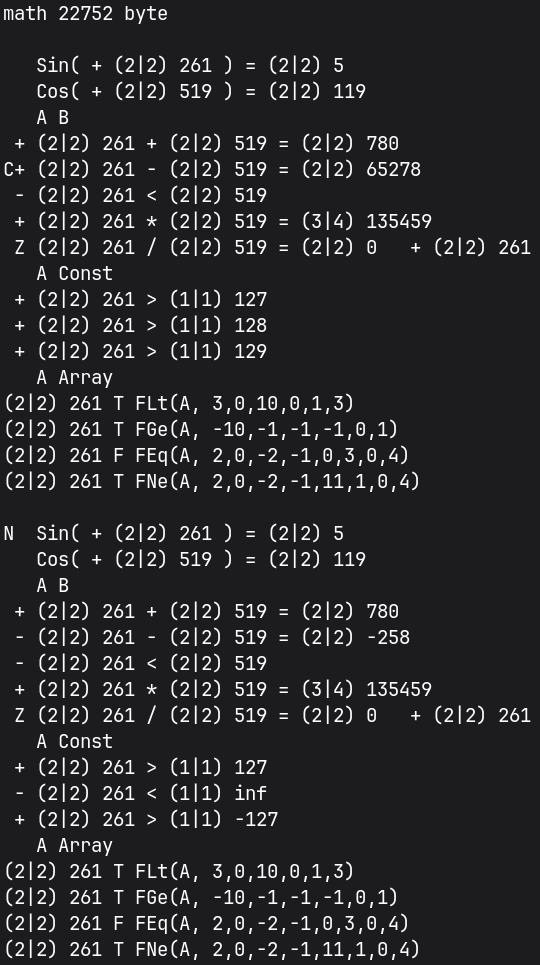
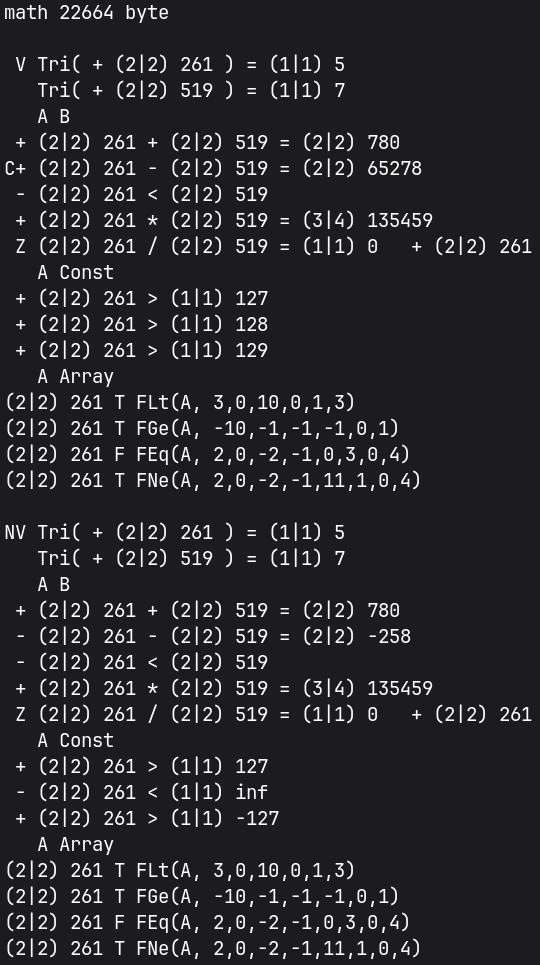
v80.3

diff --git a/math.c b/math.c
@@ -34,16 +34,9 @@ anu FOLD(anu f, an a, anu l, an b) { Mat.y = FMOV(a, l, b); Mat.q = ((Mat.x = Ma
 anu FVAR(anu f, an a, anu l, an c) { if (l--) { if (f) { FSWAP(a, l, c); return Fmov(l, a); }
     else return FMOV(a, l, c); } return Fvle(a, 0); }
 
-anu FSin(anu s, anu x) { static anu w[] = {0,1,2,3,4,5,6,7,8,9,10,11,12,13,14,15,16,17,18,19,20,21,
-  22,23,24,25,26,27,28,29,30,31,32,33,34,35,36,37,38,39,40,41,42,43,44,45,46,47,48,49,50,51,52,53,54,
-  55,56,57,58,59,60,61,62,63,63,64,65,66,67,68,69,70,71,72,73,74,75,76,77,78,79,80,81,82,83,84,85,86,
-  87,88,89,90,91,92,93,94,95,96,97,98,99,100,101,102,103,104,105,106,107,108,109,110,111,112,113,114,
-  115,116,117,118,119,120,121,122,123,124,125,126}; Mat.x = (s) ? ~x + 1 : x;
-  Mat.y = *(w + (Mat.x & 127)); Mat.y = (Mat.x & 128) ? 127 - Mat.y : Mat.y; return (s) ? ~Mat.y+1:Mat.y; }
-void FSIN(an r, anu l, an b) { Mat.y = FSin(Mat.Nim?*(b+l)&128:0, *b); Mat.N = (Mat.y&128) ?255:0; Mat.F = !Mat.y;
-  *r = Mat.y; Mat.l = 0; if ((Mat.i = l) && !Mat.V) { Mat.l = Mat.i; do *++r = Mat.N; while(--Mat.i); } }
-void FCOS(an r, anu l, an b) { Mat.y = FSin(Mat.Nim?(*(b+l)^*b)&128:0, *b^128); Mat.N = (Mat.y&128) ? 255:0; Mat.F = !Mat.y;
-  *r = Mat.y; Mat.l = 0; if ((Mat.i = l) && !Mat.V) { Mat.l = Mat.i; do *++r = Mat.N; while(--Mat.i); } }
+anu FTri(anu s, anu x) { Mat.y = (x&128) ? 127-(x&127):(x&127); return (s) ? ~Mat.y+1:Mat.y; }
+void FTRI(an r, anu l, an b) { Mat.y = FTri(Mat.Nim?*(b+l)&128:0, *b); Mat.N = (Mat.y&128) ?255:0;
+  Mat.F = !Mat.y; *r = Mat.y; Mat.l = 0; if ((Mat.i = l) && !Mat.V) { Mat.l = Mat.i; do *++r = Mat.N; while(--Mat.i); } }
 
 void FTST(an a, anu l, an b) { Mat.i = Mat.l; Mat.lb = l; Mat.a = a; Mat.b = b; Mat.TF = 0;
   Mat.u = ((*(Mat.ae = Mat.a + Mat.i) & 128) && Mat.Nim) ? 255:0; Mat.j = Mat.lb;
@@ -167,8 +160,7 @@ void FDIV(an r, an e, an a, anu l, an b) { Mat.r = r; Mat.e = e; FTST(a, l, b); 
     Mat.i = Mat.l; while(Mat.i--) { *++Mat.r = 0; } return; }
   }
 
-  void FCSIN(an r, anu l, an c) { if (l--) return FSIN(r, l, c); return FSIN(r, Mat.lb, Mat.b); }
-  void FCCOS(an r, anu l, an c) { if (l--) return FCOS(r, l, c); return FCOS(r, Mat.lb, Mat.b); }
+  void FCTRI(an r, anu l, an c) { if (l--) return FTRI(r, l, c); return FTRI(r, Mat.lb, Mat.b); }
 
   void FCTST(an a, anu l, an c) { if (l--) return FTST(a, l, c); return FTST(a, Mat.lb, Mat.b); }
   anu FCGE(an a, anu l, an c) { if (l--) { Mat.r = c; do { Mat.y = (Mat.l > l) ? l:Mat.l;

diff --git a/main.c b/main.c
@@ -24,14 +24,14 @@ void Num(anu s, an a) { anu ns,t[m]; if (s > 7) printf(" %d|? ", s + 1);
         else if (ns) printf("%u ", *(uint16_t*)a); else printf("%u ", *(uint8_t*)a); } } } }
 void Show(char s) { Flong(Mat.lb,la); Mat.C = 0; if (s == '+') FAdd(Mat.R, Mat.A); else if (s == '-') FSub(Mat.R, Mat.A);
   else if (s == '*') FMul(Mat.R, Mat.A); else if (s == '/') FDiv(Mat.R, Mat.E, Mat.A); else if (s == '?') Ftst(Mat.A);
-  else if (s == '0') FSIN(Mat.R, la, Mat.A); else if (s == '1') Fcos(Mat.R); else Ftst(Mat.A, 127);
+  else if (s == '0') FTRI(Mat.R, la, Mat.A); else if (s == '1') Ftri(Mat.R); else Ftst(Mat.A, 127);
   if (s == '?' || s == 'c') printf(" %c ", Mat.TF ? 'Z':Mat.TN ? '-':'+'); else printf("%c%c ", Mat.C ? 'C':' ', Mat.F ? Mat.N ? 'I':'Z':Mat.N ? '-':'+');
   if (s == '0' || s == '1') { if (s == '0') Num(la, Mat.A); else { Num(lb, Mat.B); } printf(") "); } else { Num(la, Mat.A);
     if (s == '?' || s == 'c') printf("%c ", Mat.TF ? '=':Mat.TN ? '<':'>'); else { if (s == 'c') printf("? "); else printf("%c ", s); } Num(Mat.lb, Mat.b); }
   if (s < '?') { printf("= "); Num(Mat.l, Mat.R); }
   if (s == '/') { printf("  %c ", Mat.Fe ? (Mat.Ne ? 'I':'Z') : (Mat.Ne ? '-':'+')); Num(Mat.le, Mat.E); } printf("\n"); }
-void Test(void) { Faddr((As)Mat.B); Flong(lb,la); anu t,i = 2; printf("\n%c%c Sin(", Mat.Nim ? 'N':' ', Mat.V ? 'V':' '); Show('0');
-  printf("   Cos("); Show('1'); printf("   A B\n"); Show('+');  Show('-'); Show('?'); Show('*'); Show('/');
+void Test(void) { Faddr((As)Mat.B); Flong(lb,la); anu t,i = 2; printf("\n%c%c Tri(", Mat.Nim ? 'N':' ', Mat.V ? 'V':' '); Show('0');
+  printf("   Tri("); Show('1'); printf("   A B\n"); Show('+');  Show('-'); Show('?'); Show('*'); Show('/');
   printf("   A Const\n"); Show('c'); while(i--) { t = *Mat.b; *Mat.b = ++t; Show('?'); }
   printf("   A Array\n"); Num(la, Mat.A); printf("%c FLt(A, 3,0,10,0,1,3)\n", FLt(Mat.A, 3,0,10,0,1,3) ? 'T':'F');
   Num(la, Mat.A); printf("%c FGe(A, -10,-1,-1,-1,0,1)\n", FGe(Mat.A, -10,-1,-1,-1,0,1) ? 'T':'F');

diff --git a/README.md b/README.md
@@ -27,7 +27,7 @@
 P.s.: Блокировку убрали как только добавил сообщение о ней на главную страницу, длилась минут 20, как я заметил, и принял меры, чтобы сообщить об этом Вам. Это сообщение останется (20.09.2026 ~16.00 +7 UTF) как память, так что буду стараться вопреки невостребованности в России по данной области дабы остальной народ мог этим воспользоваться. Проанализируйте события с момента, как я вернулся в эту сферу (конец января 2026 выложен Products, готовый полностью, затем занялся Fresh в начале февраля 2026), всё это время обновлялся код и было забавно видеть на open.net новости - даже компании серьёзные - их как озарило - так что у меня нет желания и времени следить за соблюдением GPLv3 из России, если заметите нарушение лицензии, то гарантируется взаимовыгодное сотрудничество.
 
 <div align="center">
-  <h1>Результат запуска v80.2</h1>
+  <h1>Результат запуска v80.3</h1>
   
   <picture>
     <source media="(prefers-color-scheme: dark)" srcset="Plus/psb.jpeg">
@@ -97,12 +97,12 @@ typedef struct { anu Nim, V, lb, l, le, C, F, N, Fe, Ne, TF, TN,
 ```
 
 <div align="center">
-  <h2>В состав входит 64 функций:</h2>
+  <h2>В состав входит 60 функций:</h2>
 </div>
 
 - **Инициализация** — 6 функций (4 основные и 2 вспомогательные)
 - **Обработка чисел** — 10 функций (2 зеркалирования 2 копирования 6 из константы в переменную)
-- **Тригонометрия** — 8 функции (2 атомарные, 4 для работы с константой или регистром `Mat.b` и 2 векторные: sin, cos на всём диапазоне значений угла)
+- **Треугольная волна** — 4 функции (1 атомарная, 1 для работы с константой или регистром `Mat.b` и 2 векторных: Tri{angle} на всём диапазоне значений)
 - **Математика** — 18 функций (5 основных и 13 для работы с константой или регистром `Mat.b`)
 - **Сравнение чисел** — 22 функции (7 основных, 8 для работы с константой или регистром `Mat.b` и 7 для работы с диапазонами или регистром `Mat.b`)
 
